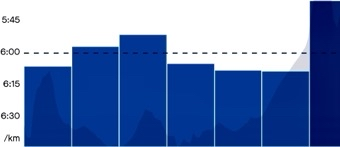
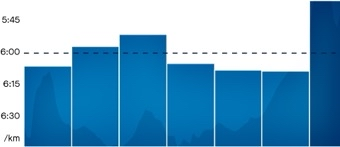
Training log update

diff --git a/content/traininglog/20201213-ironman2021-37weeksout.md b/content/traininglog/20201213-ironman2021-37weeksout.md
@@ -186,7 +186,7 @@ By the time I got to the _UVic Campus_, the rain had started, or so I thought.  
 The run started after a short break to rinse off the bike and put on some warm dry clothes (yes it was raining and I was going to get wet regardless).  The run was an out and back on _The Goose_, done on **fatigued legs**; nothing acute but certainly not comfortable.  I broke the work into four 10 minute segments and I paced it almost to the metre.  I was in the exact spot when the watch beeped at 10 and 30 minutes and I was right where I pressed start when the watched beeped at 40 minutes.  Mea culpa: I did add effort for the last 400m just because it was the end of the week.
 
 ### 6.66 KILOMETRES
-![Pace Chart](/assets/jpg/pacechart-20201219.jpeg)
+![Pace Chart](/assets/jpg/pacechart-20201219.jpeg?v2)
 
 Lots of stimulus in the legs; I am ready to get off my feet for the rest of the day.
 
